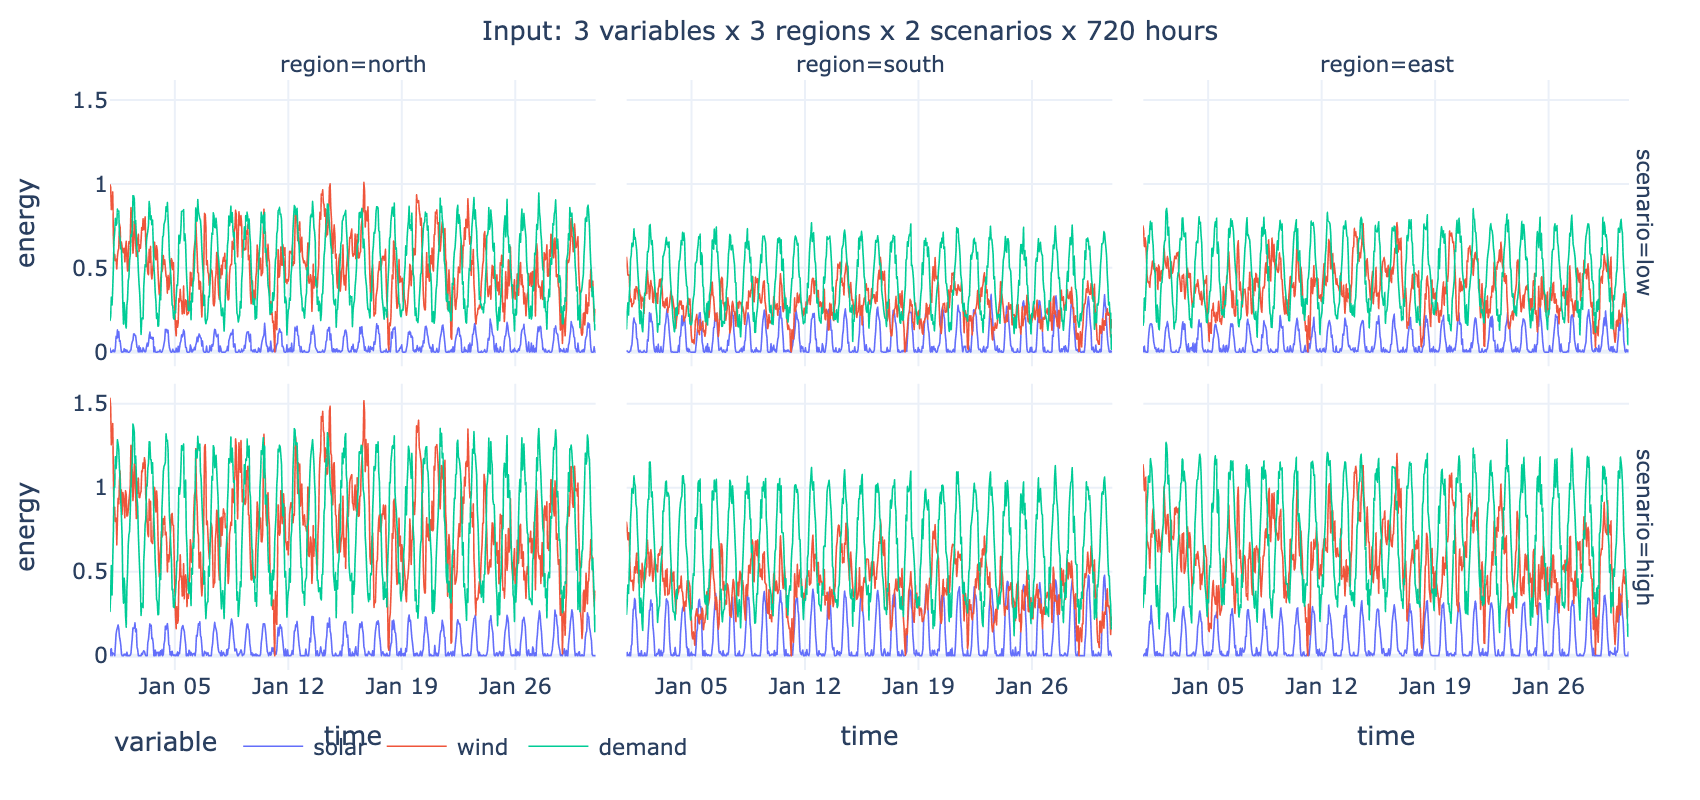
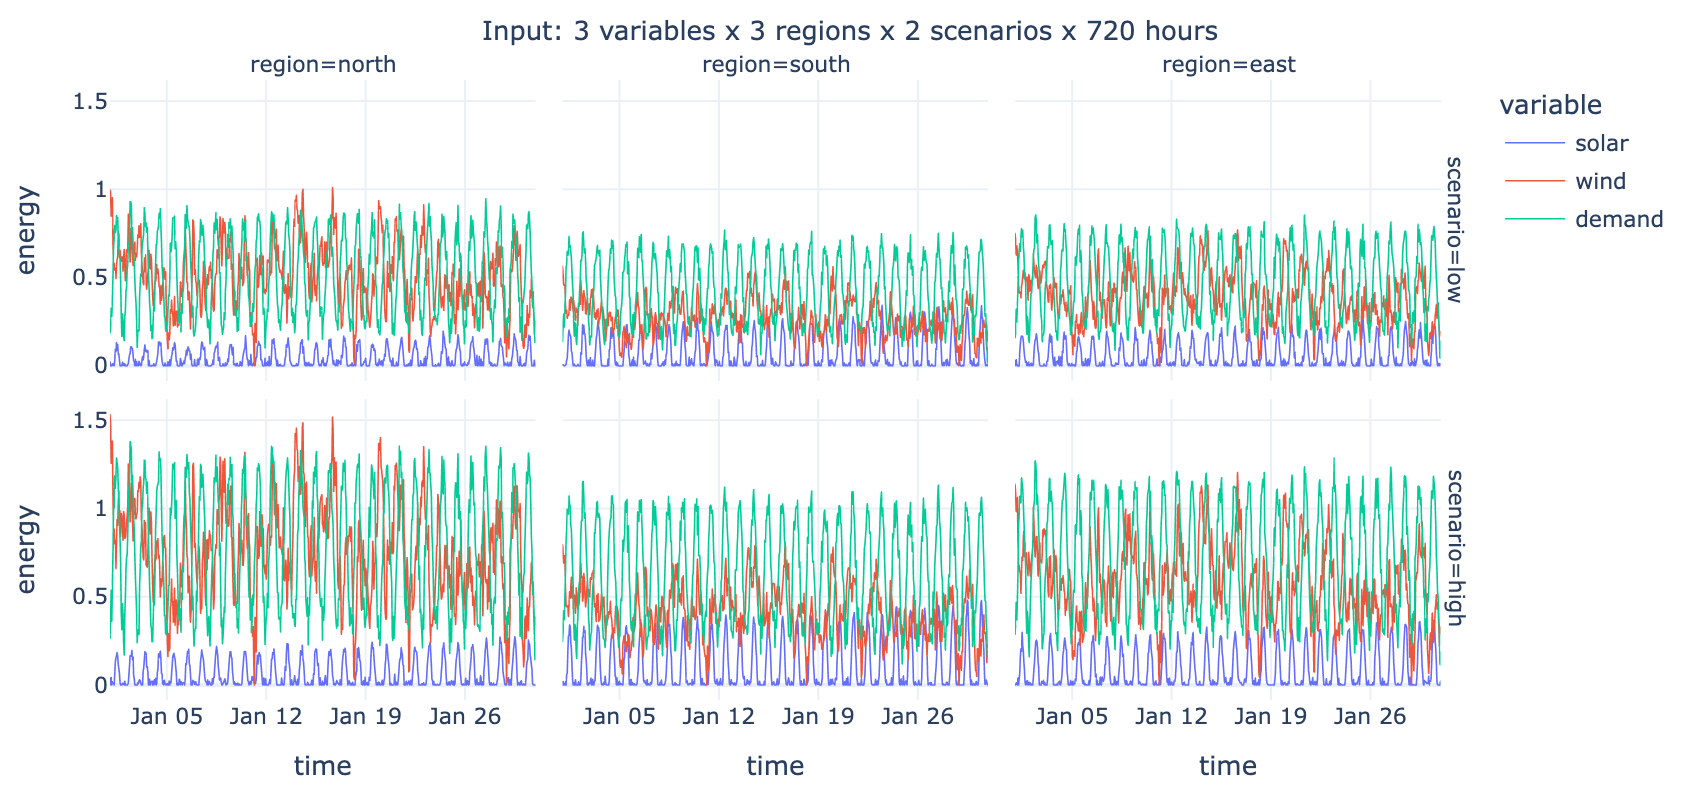
Improve plots

diff --git a/scripts/generate_readme_images.py b/scripts/generate_readme_images.py
@@ -14,7 +14,7 @@ def generate_input_plot() -> None:
     """Multi-dimensional input data plot."""
     da = sample_energy_data(n_days=30)
     fig = da.plotly.line(
-        x="time", color="variable", facet_row="region", facet_col="scenario"
+        x="time", color="variable", facet_row="scenario", facet_col="region"
     )
     fig.update_layout(
         height=400,
